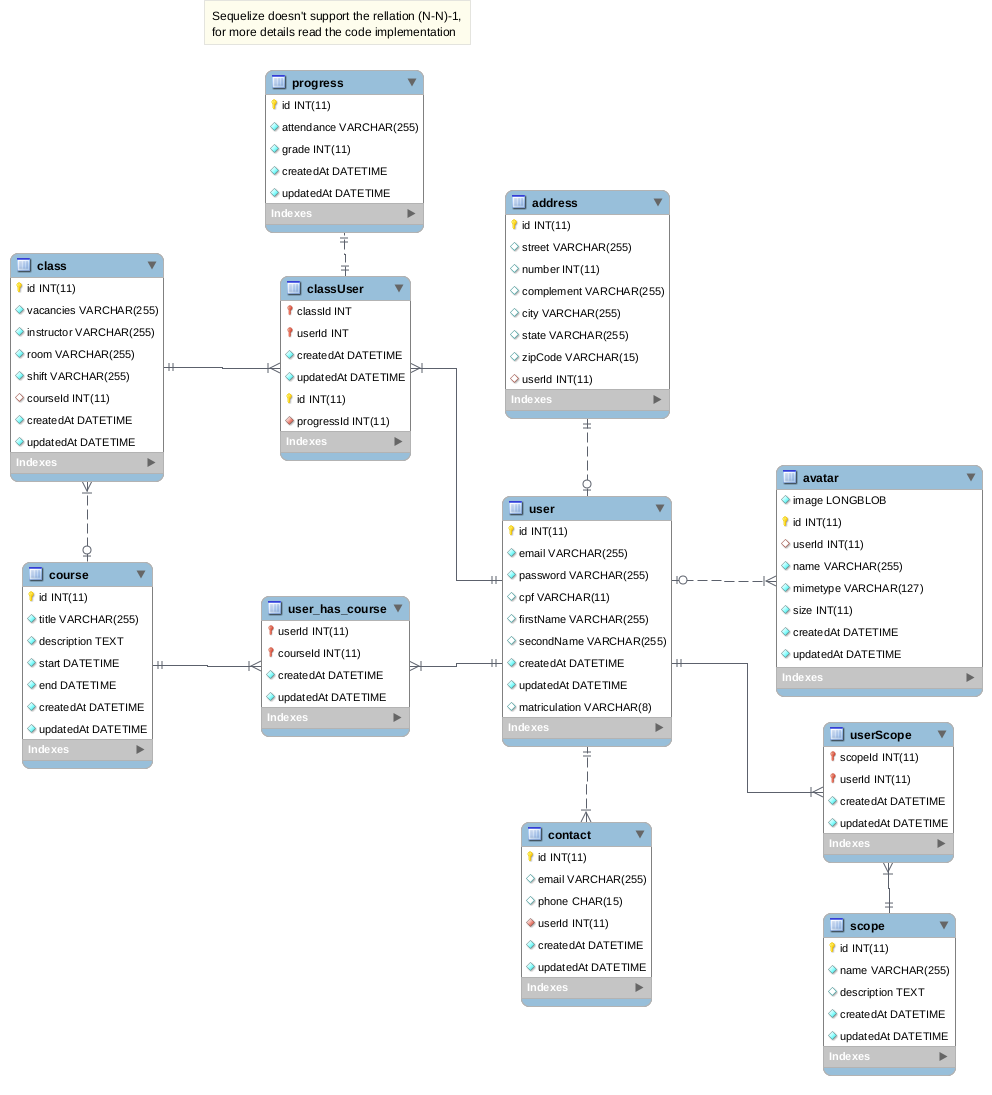
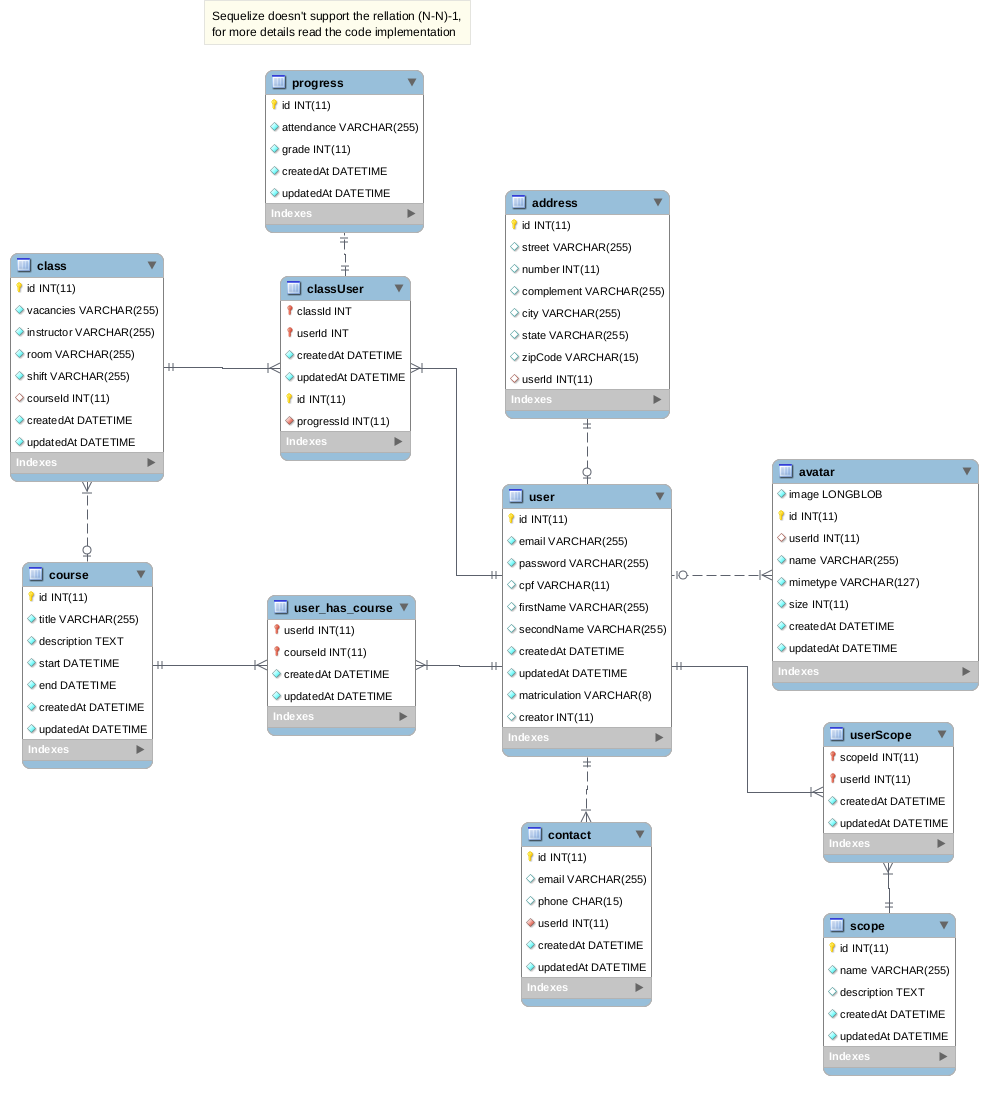
Creator attribute added to user model

diff --git a/models/user.js b/models/user.js
@@ -5,7 +5,8 @@ module.exports = (sequelize, DataTypes) => {
       id: {
         type: DataTypes.INTEGER,
         autoIncrement: true,
-        primaryKey: true
+        primaryKey: true,
+        noUpdate: true
       },
       email: {
         type: DataTypes.STRING,
@@ -26,7 +27,8 @@ module.exports = (sequelize, DataTypes) => {
         allowNull: false
       },
       firstName: DataTypes.STRING,
-      secondName: DataTypes.STRING
+      secondName: DataTypes.STRING,
+      creator: type: DataTypes.INTEGER
     },
     {
       freezeTableName: true
